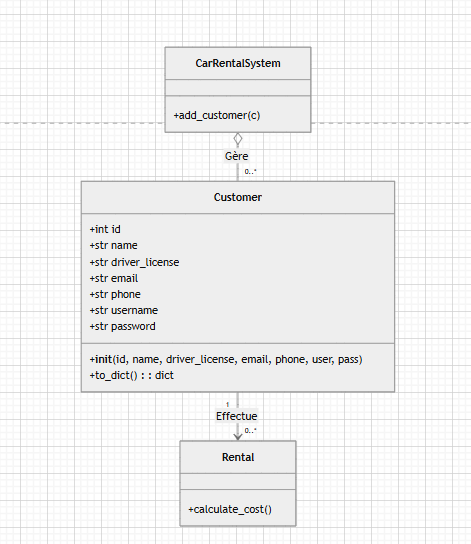
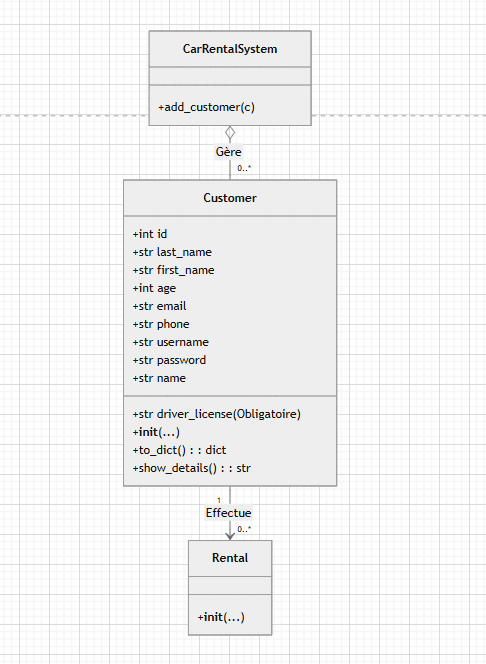
Modification complete de la classe Customer

diff --git a/streamlit_app.py b/streamlit_app.py
@@ -316,6 +316,24 @@ def post_rental(customer_id, vehicle_id, start_str, end_str):
     except Exception as e:
         return False, str(e)
 
+def check_age_rule(customer_age, vehicle):
+    """Vérifie l'âge minimum requis selon le type de véhicule."""
+    v_type = vehicle.__class__.__name__
+
+    if isinstance(vehicle, MotorizedVehicle) and v_type not in ["Karting"]:
+        if customer_age < 18:
+            return False, "Âge minimum requis pour la location motorisée : 18 ans."
+
+    if isinstance(vehicle, TransportAnimal):
+        if customer_age < 16:
+            return False, "Âge minimum requis pour la location d'animaux : 16 ans."
+
+    if v_type in ["Truck", "Plane", "Submarine", "Dragon"]:
+        if customer_age < 21:
+            return False, "Âge minimum requis pour ce type de véhicule spécialisé : 21 ans."
+    
+    return True, None
+
 # =========================================================
 # 3. INITIALISATION SESSION
 # =========================================================
@@ -408,12 +426,14 @@ if st.session_state.show_login and not st.session_state.authenticated:
             c_perso1, c_perso2 = st.columns(2)
             
             with c_perso1:
-                nn = st.text_input("Nom & Prénom *", placeholder="Ex: Jean Dupont")
+                nf = st.text_input("Prénom *", placeholder="Ex: Jean")
+                nl = st.text_input("Nom de Famille *", placeholder="Ex: Dupont")
                 n_email = st.text_input("Email *", placeholder="jean@mail.com")
             
             with c_perso2:
+                n_age = st.number_input("Âge *", min_value=12, max_value=150, value=25)
                 n_phone = st.text_input("Téléphone *", placeholder="06 12 34 56 78")
-                nperm = st.text_input("Numéro de Permis", placeholder="B-123456 (Optionnel)")
+                nperm = st.text_input("Numéro de Permis *", placeholder="Ex: B-123456")
 
             st.markdown("---")
 
@@ -428,18 +448,15 @@ if st.session_state.show_login and not st.session_state.authenticated:
             # --- 3. Validation ---
             if st.button("✨ Créer mon Compte", use_container_width=True, type="primary"):
                 # Vérification des champs obligatoires
-                if nu and np and nn and n_email and n_phone:
-                    
-                    # Vérification d'unicité de l'identifiant
+                if nu and np and nf and nl and n_email and n_phone and nperm:
                     if any(c.username == nu for c in system.customers):
                         st.error("Cet identifiant est déjà pris. Veuillez en choisir un autre.")
-                    
+
                     else:
-                        # Génération ID
                         nid = 1 if not system.customers else max(c.id for c in system.customers) + 1
                         
                         # Création du client avec TOUS les champs
-                        new_c = Customer(nid, nn, nperm, n_email, n_phone, nu, np)
+                        new_c = Customer(nid, nl, nf, int(n_age), nperm, n_email, n_phone, nu, np)
                         
                         system.add_customer(new_c)
                         save_data()
@@ -716,35 +733,44 @@ elif selected == "Louer un véhicule":
                             s_str = d_start.strftime("%Y-%m-%d")
                             e_str = d_end.strftime("%Y-%m-%d")
 
-                            try:
-                                # 1. Création via la classe Rental (Validation incluse)
-                                new_rental = Rental(me, v, s_str, e_str)
-                                
-                                # 2. Ajout au système
-                                system.rentals.append(new_rental)
-                                save_data()
+                            can_rent, reason = check_age_rule(me.age, v)
 
-                                type_vehicule = v.__class__.__name__
+                            is_motorized = isinstance(v, MotorizedVehicle)
 
-                                v_class = v.__class__.__name__
-                                sound_to_play = "succes"
+                            if is_motorized and not me.driver_license:
+                                st.error("🚫 Location impossible : Le permis de conduire est **obligatoire** pour tous les véhicules motorisés (Terre, Mer, Air).")
+                            elif not can_rent:
+                                st.error(f"🚫 Location impossible : {reason}")
+                            else:
+                                try:
+                                    # 1. Création via la classe Rental (Validation incluse)
+                                    new_rental = Rental(me, v, s_str, e_str)
+                                    
+                                    # 2. Ajout au système
+                                    system.rentals.append(new_rental)
+                                    save_data()
 
-                                class_to_key = {
-                                    "Car": "Voiture", "Truck": "Camion", "Dragon": "Dragon", 
-                                    "Horse": "Cheval", "Donkey": "Âne", "Boat": "Bateau",
-                                    "Submarine": "Sous-Marin", "Plane": "Avion"
-                                }
+                                    type_vehicule = v.__class__.__name__
 
-                                sound_key = get_sound_key_by_object(v)
-                                play_sound(sound_to_play)
+                                    v_class = v.__class__.__name__
+                                    sound_to_play = "succes"
 
-                                
-                                st.success("✅ Réservation validée !")
-                                time.sleep(2.5)
-                                st.rerun()
-                                
-                            except ValueError as e:
-                                st.error(f"Erreur : {e}")
+                                    class_to_key = {
+                                        "Car": "Voiture", "Truck": "Camion", "Dragon": "Dragon", 
+                                        "Horse": "Cheval", "Donkey": "Âne", "Boat": "Bateau",
+                                        "Submarine": "Sous-Marin", "Plane": "Avion"
+                                    }
+
+                                    sound_key = get_sound_key_by_object(v)
+                                    play_sound(sound_key)
+
+                                    
+                                    st.success("✅ Réservation validée !")
+                                    time.sleep(2.5)
+                                    st.rerun()
+                                    
+                                except ValueError as e:
+                                    st.error(f"Erreur : {e}")
 
 elif selected == "Espace Personnel":
     if st.session_state.user_role != "client": st.error("Accès réservé."); st.stop()
@@ -827,14 +853,15 @@ elif selected == "Espace Personnel":
             col_info, col_img = st.columns([3, 1])
             
             with col_info:
-                # Les champs sont pré-remplis avec les infos actuelles (value=me.x)
-                # On retire 'disabled=True' pour les rendre modifiables
-                new_name = st.text_input("Nom Complet", value=me.name)
+                new_first_name = st.text_input("Prénom", value=me.first_name)
+                new_last_name = st.text_input("Nom de Famille", value=me.last_name)
+                new_age = st.number_input("Âge", min_value=12, max_value=150, value=me.age)
+
+                st.markdown("---")
                 new_email = st.text_input("Email", value=me.email)
                 new_phone = st.text_input("Téléphone", value=me.phone)
                 new_license = st.text_input("Numéro de Permis", value=me.driver_license)
-                
-                # L'identifiant reste souvent fixe pour éviter les conflits, on le laisse gris
+
                 st.text_input("Identifiant (Non modifiable)", value=me.username, disabled=True)
             
             with col_img:
@@ -845,18 +872,17 @@ elif selected == "Espace Personnel":
             # Bouton de validation du formulaire
             if st.form_submit_button("💾 Enregistrer les modifications", type="primary"):
                 # 1. Mise à jour de l'objet Client en mémoire
-                me.name = new_name
+                me.first_name = new_first_name
+                me.last_name = new_last_name
+                me.age = int(new_age)
                 me.email = new_email
                 me.phone = new_phone
                 me.driver_license = new_license
                 
-                # 2. Sauvegarde dans le fichier JSON
                 save_data()
-                
-                # 3. Feedback et rechargement
                 st.success("Profil mis à jour avec succès !")
-                time.sleep(1)
-                st.rerun() # Force le rafraîchissement pour voir les changements partout
+                time.sleep(1); 
+                st.rerun()
 
         st.markdown("---")
         st.subheader("Zone de Danger")

diff --git a/CarRentalSystem/clients/customer.py b/CarRentalSystem/clients/customer.py
@@ -1,32 +1,31 @@
 class Customer:
-    def __init__(self, c_id: int, name: str, driver_license: str, email: str, phone: str, username: str, password: str):
+    def __init__(self, c_id: int, last_name: str, first_name: str, age: int, driver_license: str, email: str, phone: str, username: str, password: str):
         self.id = c_id
-        self.name = name
+        self.last_name = last_name
+        self.first_name = first_name
+        self.age = age
         self.driver_license = driver_license
         self.email = email
         self.phone = phone
         self.username = username
         self.password = password
 
+    @property
+    def name(self):
+        return f"{self.first_name} {self.last_name}"
+
     def show_details(self):
-        return f"[Client #{self.id}] {self.name} (Permis: {self.driver_license})"
+        return f"[Client #{self.id}] {self.name} ({self.age} ans)"
     
     def to_dict(self):
         return {
             "id": self.id,
-            "name": self.name,
+            "last_name": self.last_name,
+            "first_name": self.first_name,
+            "age": self.age,
             "driver_license": self.driver_license,
             "email": self.email,
             "phone": self.phone,
             "username": self.username,
             "password": self.password
-        }
-    
-    def to_table_row(self):
-        return {
-            "ID": self.id,
-            "Nom": self.name,
-            "Utilisateur": self.username,
-            "Permis": self.driver_license,
-            "Email": self.email
         }
